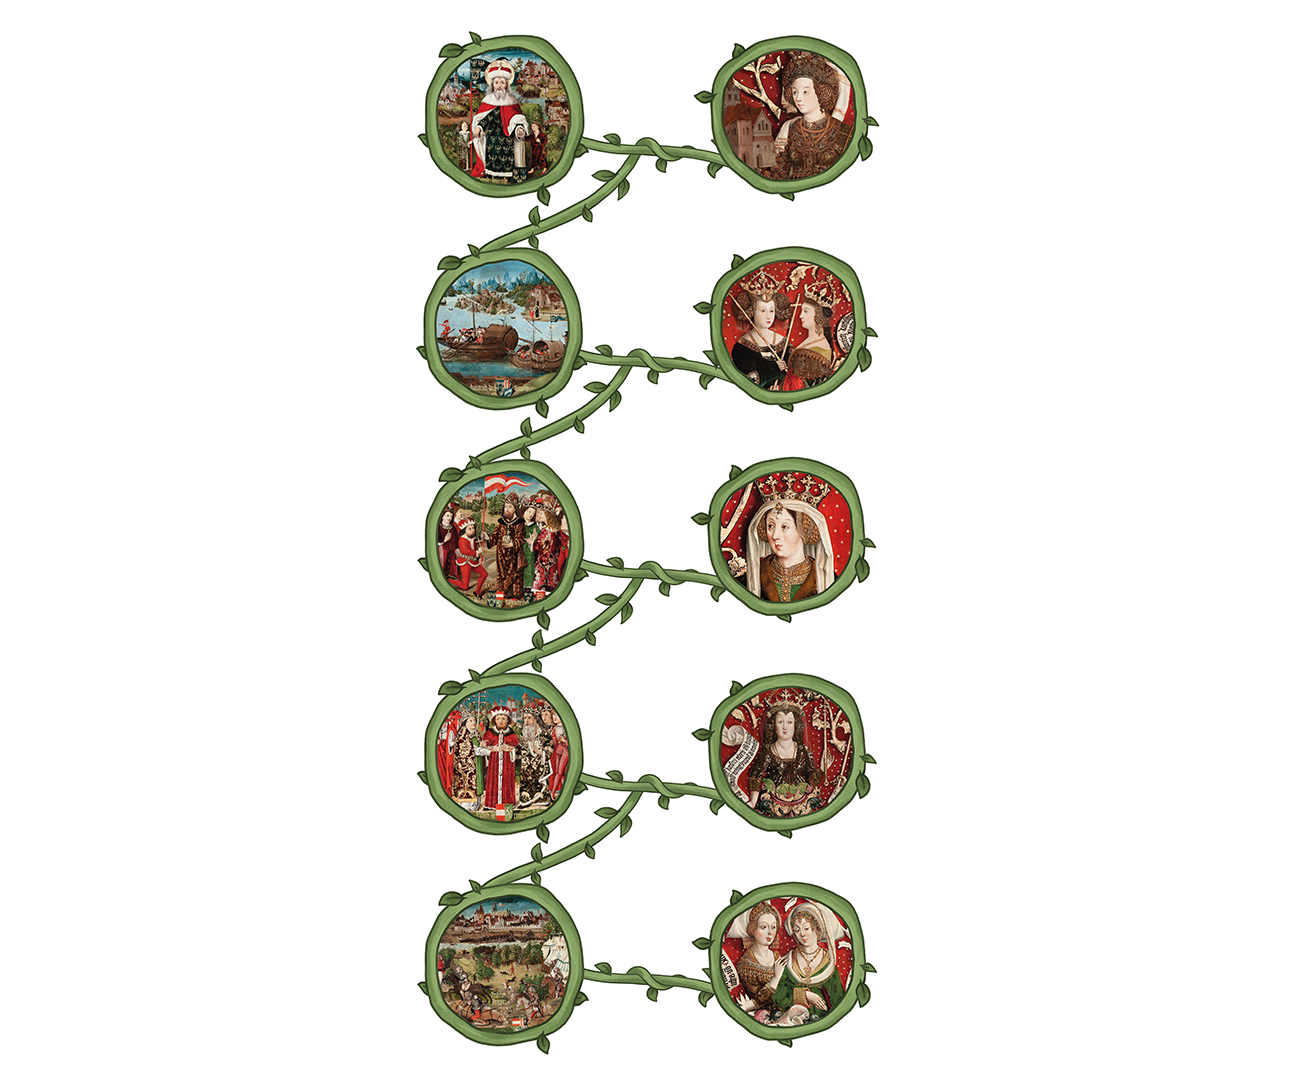
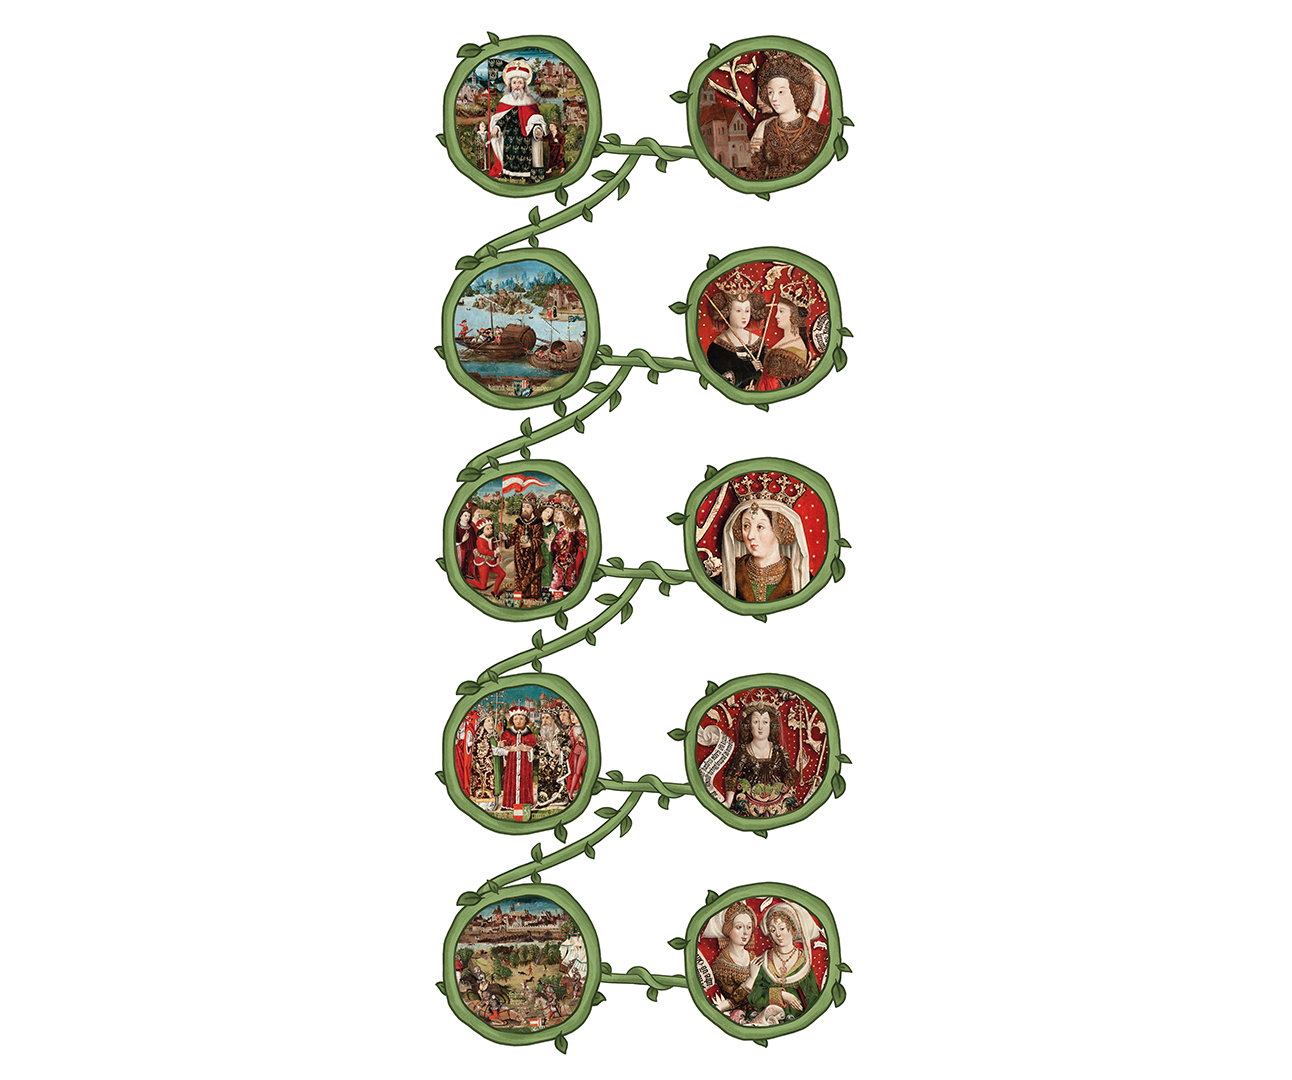
adapts to projection size

diff --git a/projection/style.css b/projection/style.css
@@ -1,17 +1,19 @@
 body{
-    background: url("img/reprodcution-v0-4-1080.png");
+    background: url("img/reprodcution-v0-4-1080.png") black;
     background-size: contain;
     background-repeat: no-repeat;
     background-position: center;
     height: 1080px;
     width: 1920px;
     margin: 0;
+    box-sizing: border-box;
 }
 
 #box{
     display: table;
-    width: 100%;
+    width: 1292px;
     height: 100%;
+    margin: 0 314px;
 }
 
 .col{
@@ -20,44 +22,63 @@ body{
 }
 
 .col:nth-child(1) {
-    width: 730px;
+    width: 34%;
 }
 .col:nth-child(2) {
-    width: 463px;
+    width: 32%;
     background: transparent;
 }
 .col:nth-child(3) {
-    width: 727px;
+    width: 34%;
 }
 
 .map{
     height: 385px;
-    background: ivory;
+    background: grey;
 }
 
 .info{
-    height: 250px;
-    margin: 30px 60px;
+    height: 150px;
+    margin: 50px 20px;
 }
 .banner{
     border: 2px solid black;
-    height: 150px;
+    height: 100px;
     float: left;
-    width: 400px;
-    margin-top: 50px;
+    width: 250px;
+    margin-top: 30px;
 }
 
-.banner h1, .banner p{
-    padding-left: 20px;
+.left .banner h1, .left .banner p{
+    padding-left:20px;
+}
+
+.right .banner h1, .right .banner p{
+    padding-left: 30px;
+}
+
+.right .banner{
+    margin-left: 150px;
+}
+
+.info h1{
+    font-size: 20px;
 }
 
 .info img{
-    width: 250px;
+    width: 170px;
     float: left;
+}
+
+.left img{
     margin-left: -50px;
+}
+
+.right img{
+    margin-left: -400px;
 }
 
 .children{
     height: 385px;
-    background: ivory;
+    background: grey;
 }

diff --git a/projection/script.js b/projection/script.js
@@ -23,13 +23,15 @@ d3.json("data/genealogy-data.json", function(data){
         }
 
         var map = myDiv.append("div").attr("class", "map");
-        var info = myDiv.append("div").attr("class", "info");
+        var info = myDiv.append("div").attr("class", "info "+ whichSide);
         var children = myDiv.append("div").attr("class", "children");
 
         var infoDiv = info.append("div").attr("class", "banner");
         infoDiv.append("h1").text(myPerson.name);
         infoDiv.append("p").text(getTimeString(myPerson));
+
         info.append("img").attr("src", "/img/"+myPerson.img+".png");
+
     }
 
     var myPerson;
